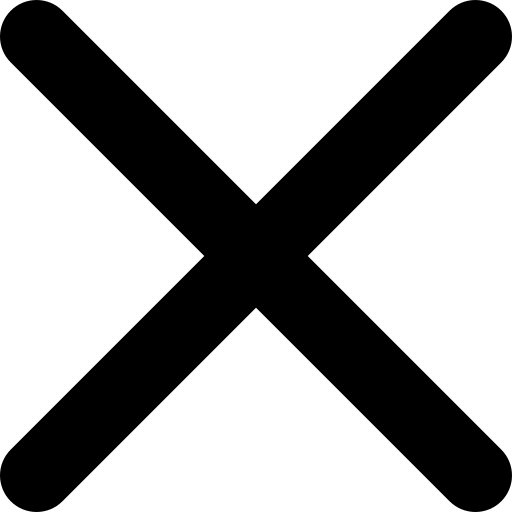
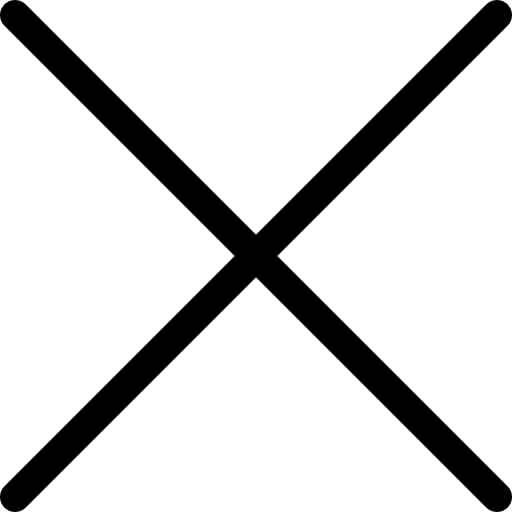
funcao de confirmar deletamento da anotacao terminado

Changed region(s): [[0.0, 0.0, 1.0, 1.0]]

diff --git a/src/AnotationBlock.jsx b/src/AnotationBlock.jsx
@@ -4,7 +4,7 @@ import apagarNota from './assets/apagarnota.png'
 import confirmar from './assets/confirma.png'
 import negar from './assets/negar.png'
 import { useState } from 'react'
-import {motion, stagger} from 'framer-motion'
+import {animateMini, AnimatePresence, motion, stagger} from 'framer-motion'
 
 
 function AnotationBlock({cor, titulo, subtitulo, notaID, refresh, animate}){
@@ -56,16 +56,29 @@ function AnotationBlock({cor, titulo, subtitulo, notaID, refresh, animate}){
             </div>
 
             <div style={{height:"100%", display:"flex", alignItems:"start", justifyContent:"center", padding:10}}>
-                {!confirma && <img onClick={() => setConfirma(true)} style={{height:50, width:50}} src={apagarNota}></img>}
+                <img onClick={() => setConfirma(true)} style={{height:50, width:50}} src={apagarNota}></img>
             </div>
 
+        <AnimatePresence>
+        {confirma && <motion.div className='confirma'
+            variants={{
+                before: {opacity: 0.3, right:-200},
+                after: {opacity:1, right:0, transition: {type: "tween", ease: [0.16, 1, 0.3, 1], duration: 0.3}},
+                sair: {opacity:0, right: -250}
+            }}
+            initial="before"
+            animate="after"
+            exit="sair"
+        >
+            <div onClick={() => deletarNota(notaID, true)} className='flex-center sim-nao' style={{backgroundColor:"green"}}>
+                <img className='iconsConfirma' src={confirmar}></img>
+            </div>
+            <div onClick={() => deletarNota(notaID, false)} className='flex-center sim-nao'>
+                <img className='iconsConfirma' src={negar}></img>
+            </div>
+        </motion.div>}
+        </AnimatePresence>
 
-        {confirma && <div className='confirma'>
-            <div onClick={() => deletarNota(notaID, true)} className='flex-center' style={{backgroundColor:"red", height:"100%", width:"50%"}}><img src={confirmar}></img></div>
-            <div onClick={() => deletarNota(notaID, false)} className='flex-center' style={{backgroundColor:"green", height:"100%", width:"50%"}}><img src={negar}></img></div>
-        </div>}
-
-        {/* <button style={{height:50, width:50}} onClick={() => (setConfirma(c => !c))}></button> */}
         </motion.div>
     )
 }

diff --git a/src/anotationBlock.css b/src/anotationBlock.css
@@ -10,7 +10,8 @@
     align-items: center;
     word-wrap: break-word;
     word-break: break-all;
-    min-height: 13%;
+    min-height: 15%;
+    height: auto;
     width: 100%;
     position:relative;
 }
@@ -45,12 +46,33 @@
     display: flex;
     justify-content: space-evenly;
     align-items: center;
-    position:'absolute'; 
+    position:absolute; 
+    display: flex;
+    align-items: start;
     background-color: transparent;
-    border: 1px solid black;
-    height: 100%;
-    width: 30%;
+    height: auto;
+    width: 15%;
     border-radius: inherit;
     flex-direction: row;
+    top: 0;
+    padding-top: 0.4%;
+    padding-right: 0.4%;
+    background-color: inherit;
+    border-top-left-radius: 0px;
+    border-bottom-right-radius: 0px;
 }
 
+.sim-nao{
+    top: 0;
+    width: 50%;
+    background-color: red;
+    height: 60px;
+    margin: 1px;
+    border-radius: 1220px;
+    border: 3px solid black;
+}
+
+.iconsConfirma{
+    height: "auto";
+    width: 25%;
+}

diff --git a/src/Components/LoginComRosto2.jsx b/src/Components/LoginComRosto2.jsx
@@ -123,7 +123,7 @@ export default function FaceLogin() {
       >
 
     <div style={{ textAlign: "center" }} >
-      <h2 onClick={navigate("/")}>Sistema Facial</h2>
+      <h2 onClick={() => navigate("/")}>Sistema Facial</h2>
 
       <video
         ref={videoRef}

diff --git a/src/footer.css b/src/footer.css
@@ -11,7 +11,6 @@
 
 .footerContainerAdmin{
     position: relative;
-
     display: flex;
     flex-direction: row;
     background-color: #1C3D6E;

diff --git a/src/ConteudoAdmin.jsx b/src/ConteudoAdmin.jsx
@@ -11,6 +11,8 @@ import BlocoAnotacoes from './BlocoAnotacoes'
 
 function ConteudoAdmin(){
 
+
+    
     
 
     return(
